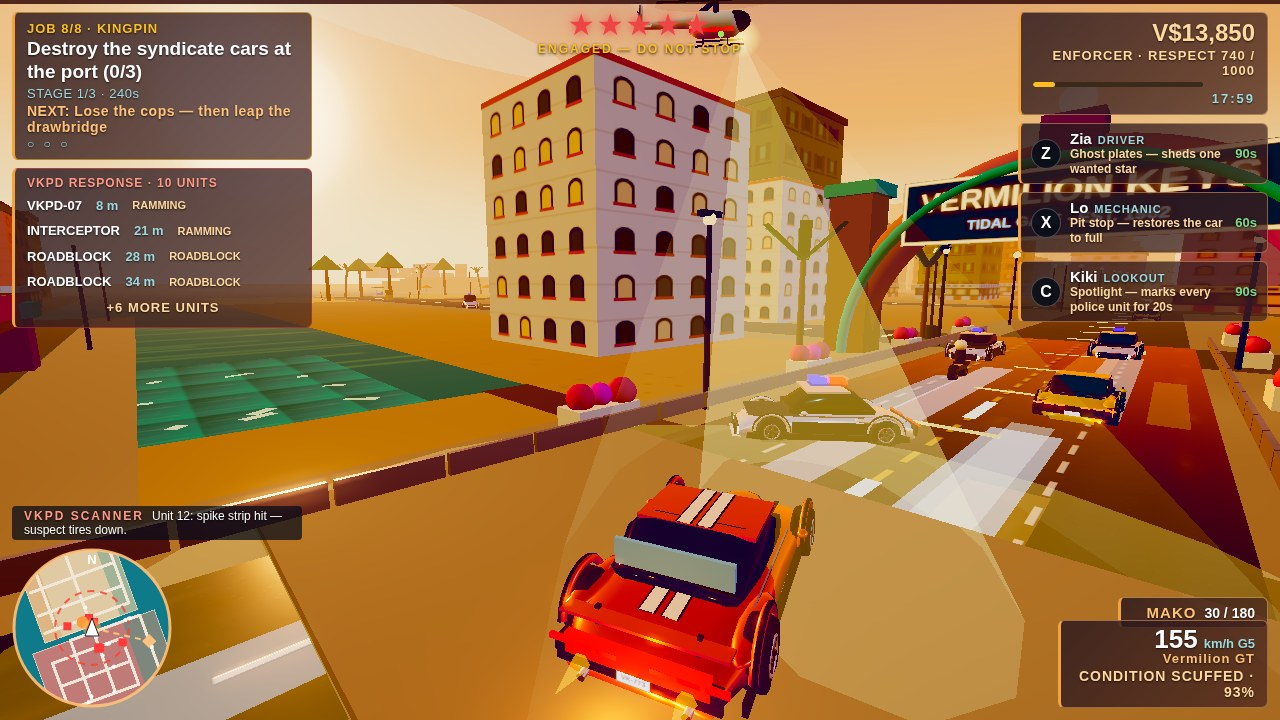
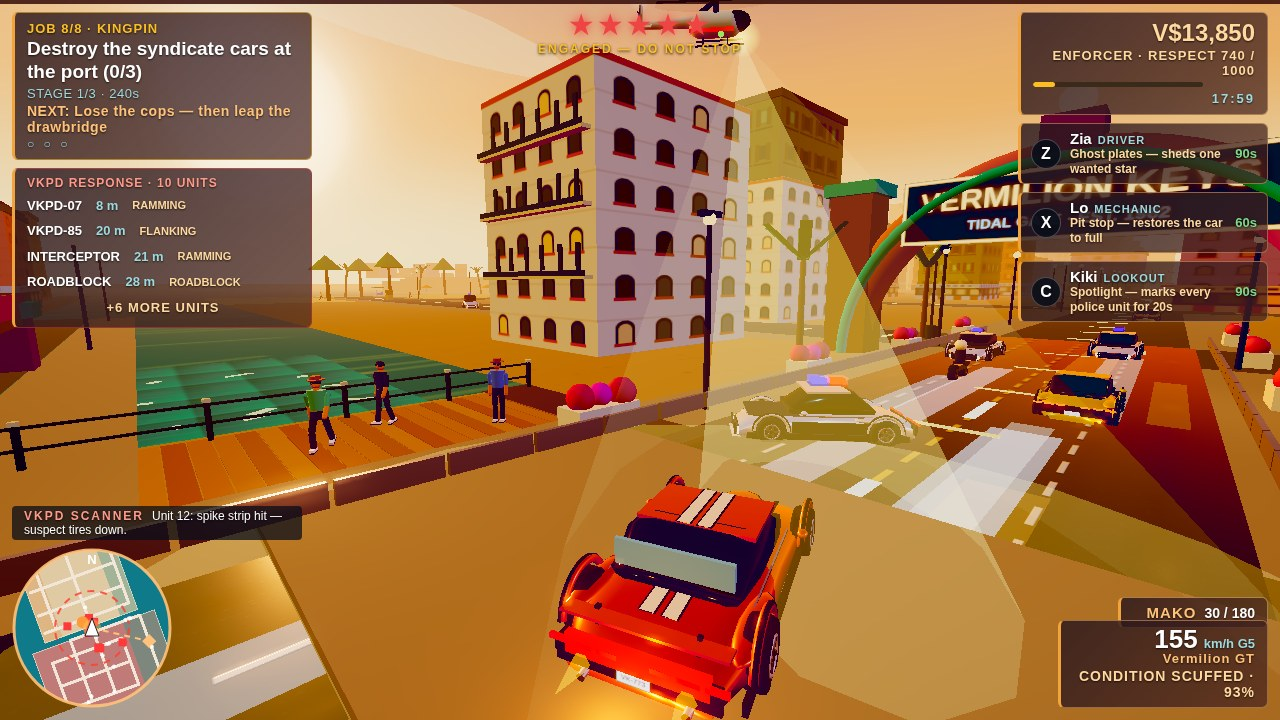
Tidal Gate candidate: harbor upgrade + four-frame sheet (recording 37)
Codex's Tidal Gate harbor upgrade: timber walkway, waterside railing,
balconies + shutters, three civilians on the timber landing. Cover passed
Codex's gate under recording 36. Four-frame sheet for blind comparison vs #1.

Frames: 1-cover 6e9999bf (217,950 B) · 2-combat 488c9754 (187,672 B) ·
3-career a179638e (byte-identical) · 4-title 7fb67369 (131,384 B).
Judge view: milestones/judgeview-tidal-gate.jpg 0a10c085 (138,777 B).
Fixed sheet (653eafa8 / cde73f65) untouched.

diff --git a/game/src/shots.js b/game/src/shots.js
@@ -853,47 +853,27 @@ export function stageShot(kind, game) {
       if (ud.hotspot) ud.hotspot.scale.set(3.0, 3.0, 1);
       if (hp.pool) hp.pool.material.opacity = 0.12;
     }
-    // Camera (FIX ROUND 8, Builder B): low rear three-quarter chase,
-    // COVER DENSITY (Step 6): extra NPCs ONLY in the cover branch, on
-    // the south promenade in the orbited camera's southwest view — the
-    // street must not read empty. Placed AFTER the drive loop (frozen
-    // poses, no sim ticks after, so they stay on their marks). The
-    // west end (x 210-230) is clear of the existing archetypes
-    // (x 234-249) and off the road (z +10..12 is promenade).
-    // RECORDING 33 (user, 2026-11-24 10:24 IST): the 32b039ec cover
-    // frame reads the NPCs as WALKING ON WATER — they stand on island
-    // 2 (x 210-230) with the water channel (x 230-250) between them
-    // and the camera, so the teal water reads under their feet.
-    // REVISION (recapture 1): shifting them 15 m west (x 195-215)
-    // did NOT fix it — any spot on island 2 has the channel between
-    // it and the camera. Moved to the NEAR side: island 3's south
-    // promenade (x 255-268, z 10-14), west of the hero, on tan land
-    // with NO water between them and the camera. They stay off the
-    // road (z +10..14 is promenade) and keep the left side populated.
-    // REVISION (recapture 3): x 255-268, z 10-14 put them too close
-    // to the camera's south edge — out of frame to the left, so the
-    // left side read empty. Moved to the sidewalk edge (x 250-258,
-    // z 6-8): still island 3 tan land, no water between them and the
-    // camera, but inside the frame's left edge and off the road.
-    // spawnArchetype is the population director's real spawner.
-    for (const s of [
-      { kind: 'tourist', x: 250, z: 6 },
-      { kind: 'skater', x: 252, z: 8 },
-      { kind: 'tourist', x: 254, z: 7 },
-      { kind: 'lookout', x: 256, z: 6 },
-      { kind: 'tourist', x: 251, z: 8 },
-      { kind: 'skater', x: 253, z: 7 },
-      { kind: 'tourist', x: 255, z: 6 },
-      { kind: 'lookout', x: 257, z: 8 },
-    ]) {
-      const p = g.population.spawnArchetype(s.kind, s.x, s.z);
-      p.state = 'walk';
-      p.idle = 0;
-    }
-    // behind-RIGHT, computed from the REAL sim pose by coverPose —
-    // never a hand-posed guess. The round-7 high south-east camera
-    // is gone: the hero's right flank, the wet road and the sunset
-    // harbour read from ~2 m above the car's base, ~6.2 m behind it.
+    // Move three existing civilians onto the fixed timber landing after
+    // the chase. Reuse the live character rigs and population roster.
+    const bystanders = g.peds.peds.filter(p => p.mesh.userData.rig && !p.static && !p.guard && p.state !== 'down');
+    const landingPoses = [
+      { x: 238.1, z: 10.5, heading: 2.6, pose: 'walk', phase: 0.19 },
+      { x: 236.2, z: 11.8, heading: 1.9, pose: 'walk', phase: 0.73 },
+      { x: 233.6, z: 9.8, heading: 2.3, pose: 'idle', phase: 0 },
+    ];
+    landingPoses.forEach((mark, i) => {
+      const ped = bystanders[i];
+      if (!ped) return;
+      ped.mesh.userData.rig.setPose(mark.pose, mark.phase);
+      ped.mesh.rotation.y = mark.heading;
+      ped.mesh.position.set(mark.x, 0, mark.z);
+      const sole = new THREE.Box3().setFromObject(ped.mesh, true).min.y;
+      ped.pos.set(mark.x, 0.016 - sole, mark.z);
+      ped.heading = mark.heading;
+      ped.mesh.position.copy(ped.pos);
+      ped.mesh.visible = true;
+    });
+
     const coverCam = coverPose(runCar);
     // COVER ORBIT (Step 1): rotate the camera 30° around the hero so
     // the car is not dead-on rear — the rear three-quarter shows the

diff --git a/game/src/world/city.js b/game/src/world/city.js
@@ -198,6 +198,55 @@ export function buildCity(scene, rng, game) {
     quay.receiveShadow = true;
     scene.add(quay);
   }
+  // A timber landing on the fixed south quay. The deck sits flush with
+  // walkable ground. All solid fittings stay outside the drawbridge.
+  const fittings = [];
+  function addFitting(x, y, z, width, height, depth, color) {
+    fittings.push({ x, y, z, width, height, depth, color });
+  }
+  const timber = [0xb58862, 0xa67856, 0xbb926c, 0xa77e60, 0xb58b66];
+  const iron = 0x205052;
+  const cream = 0xe9d9ae;
+  for (let i = 0; i < 40; i++) {
+    addFitting(230.25 + i * 0.5, 0.008, 10.55, 0.478, 0.016, 6.3, timber[i % timber.length]);
+  }
+  // Brass curb inlay and a two-rail fence silhouette against the water.
+  addFitting(240, 0.021, 7.55, 20, 0.012, 0.13, cream);
+  for (const height of [0.48, 0.98]) {
+    addFitting(240, height, 13.5, 19.5, 0.065, 0.08, iron);
+  }
+  for (let i = 0; i <= 6; i++) {
+    const x = 230.25 + i * 3.25;
+    addFitting(x, 0.55, 13.5, 0.13, 1.1, 0.13, iron);
+    addFitting(x, 1.09, 13.5, 0.18, 0.10, 0.18, cream);
+  }
+  colliders.push({ x0: 230.18, x1: 249.82, z0: 13.43, z1: 13.57 });
+
+  // Put relief on the nearest limestone facade. The balcony fascias,
+  // reveals and shutters cast readable bands even with sun shadows off.
+  const facadeX = 223;
+  for (const y of [4.4, 8.3, 12.2]) {
+    addFitting(facadeX + 0.25, y, 24, 0.74, 0.22, 11.3, cream);
+    addFitting(facadeX + 0.6, y + 0.23, 24, 0.08, 0.31, 11.3, iron);
+    for (const z of [20.4, 24, 27.6]) {
+      for (const side of [-1, 1]) {
+        addFitting(facadeX + 0.07, y + 1.18, z + side * 0.85, 0.14, 1.5, 0.31, iron);
+      }
+    }
+  }
+  const trim = new THREE.InstancedMesh(new THREE.BoxGeometry(1, 1, 1),
+    new THREE.MeshLambertMaterial(), fittings.length);
+  const transform = new THREE.Object3D();
+  fittings.forEach((part, i) => {
+    transform.position.set(part.x, part.y, part.z);
+    transform.scale.set(part.width, part.height, part.depth);
+    transform.updateMatrix();
+    trim.setMatrixAt(i, transform.matrix);
+    trim.setColorAt(i, new THREE.Color(part.color));
+  });
+  trim.name = 'Tidal Gate landing and balcony trim';
+  trim.receiveShadow = true;
+  scene.add(trim);
   // HARBOUR FIX — moored boat: a small boat floating on the channel
   // water just south of the quay, placed so it reads in the cover
   // frame (the teal water strip at the frame's left edge).

diff --git a/milestones/recapture-37.md b/milestones/recapture-37.md
@@ -1,0 +1,63 @@
+# Recapture 37 — Tidal Gate candidate (recording 37)
+
+Recording 37 ID: `01a20c51-a869-751b-b384-cc5709c3afef`
+Commit: `PENDING` (remote main matches)
+Base: `653eafa8` (recapture 34)
+
+## What this is
+The Tidal Gate candidate. Codex's harbor upgrade patch (timber walkway, waterside
+railing, balconies + shutters, three civilians moved onto the timber landing).
+The cover passed Codex's gate under recording 36 (three civilians recognizable
+at 620 px, feet on timber boards, cruiser clear, waterline behind the fence).
+This recording captures the full four-frame sheet for a blind comparison vs #1
+Karimbu. The fixed blind-test sheet (653eafa8 / judge view cde73f65, for re-test
+14 at 14:30 IST) is NOT touched — this candidate gets its own judge view.
+
+## Code
+- `game/src/shots.js` + `game/src/world/city.js`: 70 insertions / 41 deletions,
+  content-identical to Codex's tidal-gate.patch (verified by git diff).
+  `node --check` passes on both.
+
+## Frames (all 1280x720, <=256 KiB)
+| Frame | md5 | Size | Note |
+|---|---|---|---|
+| 1-cover.jpg | `6e9999bf23763b4c3e43e9d57a04ccae` | 217,950 B | CHANGED (Tidal Gate). 7/7 burst identical. Differs from rec-36 cover (d1731c6f, 218,343 B) by 393 B render shimmer; content verified identical by reading. |
+| 2-combat.jpg | `488c9754a7a5eaaca775602fed9ba5eb` | 187,672 B | 7/7 identical. Shimmer vs 653eafa8 (74958c39, 187,979 B); content verified. 3/6 DOWN. |
+| 3-career.jpg | `a179638eb37abdb92a59bfba2a0d7ec6` | 166,590 B | BYTE-IDENTICAL to 653eafa8. |
+| 4-title.jpg | `7fb67369a6b7ec84f467792a9b0d5bf6` | 131,384 B | Burst index 3 (same as recaptures 32/34). Shimmer vs 653eafa8 (173419ba, 130,368 B); content verified. |
+
+Cover values hold: 17:59, V$13,850, respect 740, 74.5%, 10 units, 5 stars.
+Combat: 3/6 DOWN (known staging variance). No page errors in any burst log.
+
+## Judge view (NEW files — fixed sheet untouched)
+- `milestones/judgeview-tidal-gate.jpg`: md5 `0a10c085c6cb64c20c8b12e6b4b29aab`, 138,777 B, 768x594.
+- `milestones/cover-tidal-gate-620.jpg`: md5 `6c3380245e0bfe8f1580c4fd429ea36b`, 70,654 B, 620x349.
+  (Overwrites the recording-36 620 px cover 03092352 with the burst cover.)
+- Fixed sheet intact: `milestones/judgeview-depth.jpg` still `cde73f65`,
+  `milestones/cover-depth-620.jpg` still `c52ac857`.
+
+## Thumbnail verdict — ALL PASS
+- NEXT readable (cover two lines, combat one); crew Zia/Lo/Kiki + Ghost plates /
+  Pit stop / Spotlight legible; condition reads (SCUFFED 93% cover / 82% combat);
+  no HUD overlap; cover rear three-quarter; title kicker
+  "MAKE.FUN · OPEN-WORLD BOUNTY" (no "GTA 6"); wheel hint on two lines in the
+  136px ring; 4 real slots + Kiki dialogue.
+- Three civilians recognizable at 620 px on the timber landing (green shirt +
+  red cap, dark clothing, blue shirt + red cap, ~30-35 px tall), white shoes on
+  the brown timber planks, feet on the boards, NOT on water/floating/cut off.
+- Cruiser recognizable (white/black, light bar; second cruiser + yellow taxi
+  also visible). Waterline recognizable (green/teal water behind the black
+  two-rail fence, timber deck between fence and road, nobody on the water).
+- Timber landing reads as a harbour boardwalk (planks + railing + brass curb +
+  water); facade relief visible (cream bands, iron shutters).
+- Heli clears the roofline (partially at the top edge, same as recording 36).
+  Pre-existing observations (NOT new defects): heli silhouette overlaps the
+  wanted stars; crew panel still obscures part of the Tidal Gate sign.
+- No new defect: no civilian overlaps the car/HUD/Tidal Gate sign; landing
+  clips through nothing; no figure floats.
+
+## Blind comparison vs #1 Karimbu
+Four fresh chats (Gemini + Claude ours-first, DeepSeek + ChatGPT #1-first),
+gate 3/4, watch C1. Verdicts recorded in
+~/workspace/makefun/judge-decisions/gta6-01.jsonl and
+~/workspace/makefun/gta6-01/retest-tally.md. See Issue #1 for the result.
